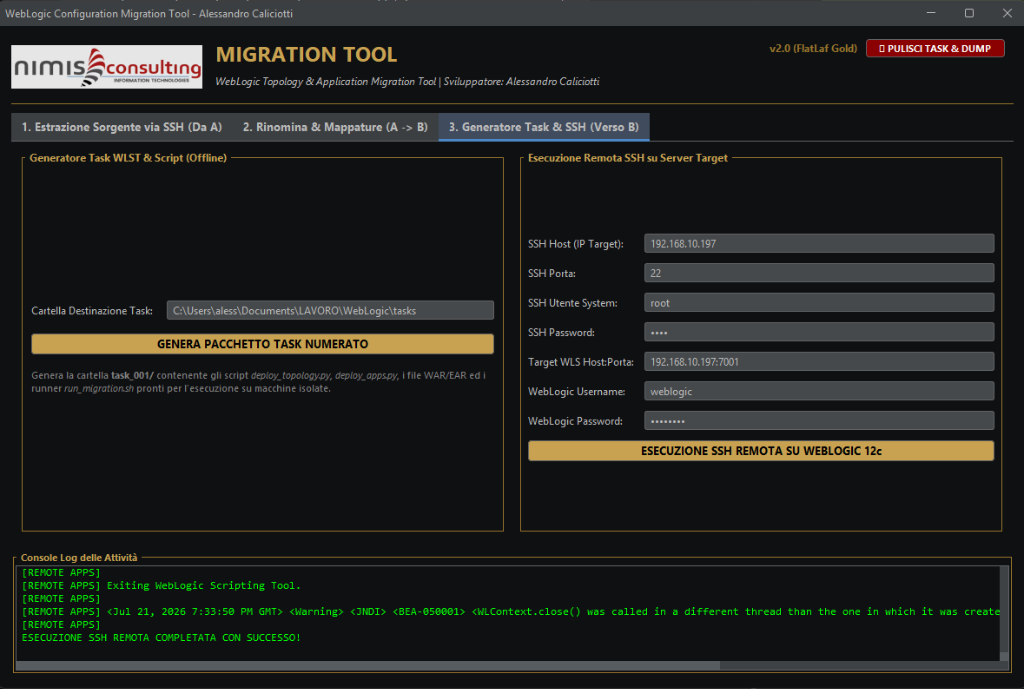
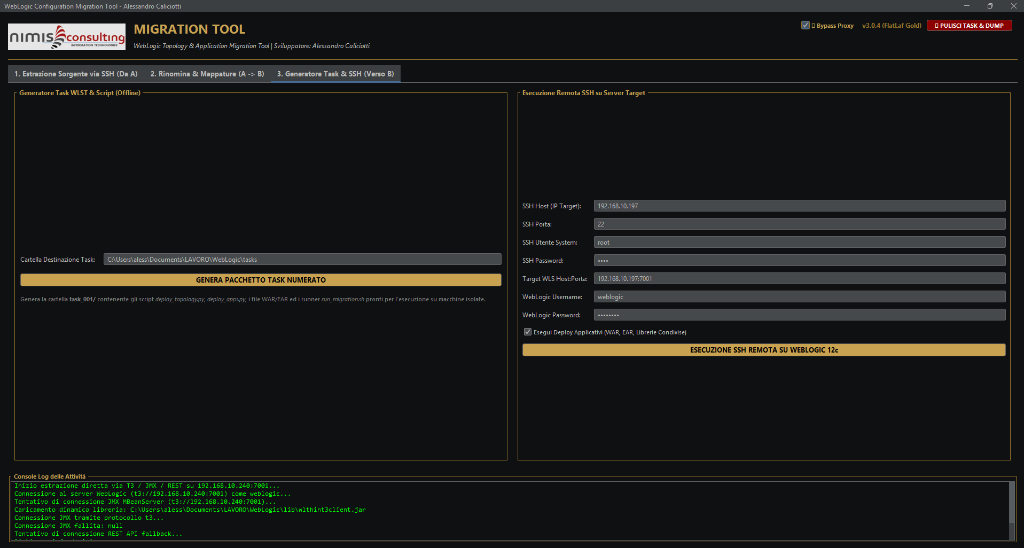
Update README.md with v3.0.4 features and screenshots

diff --git a/README.md b/README.md
@@ -5,7 +5,7 @@
 </p>
 
 <p align="center">
-  <b>Version 2.0 (FlatLaf Gold)</b> | Sviluppatore: <i>Alessandro Caliciotti</i> | <b>Nimis Consulting Information Technologies</b>
+  <b>Version 3.0.4 (FlatLaf Gold)</b> | Sviluppatore: <i>Alessandro Caliciotti</i> | <b>Nimis Consulting Information Technologies</b>
 </p>
 
 ---
@@ -22,19 +22,23 @@
 ### 📌 Panoramica del Software
 Il **WebLogic Migration Tool** è una soluzione software enterprise progettata per automatizzare l'estrazione, la migrazione e la replicazione della topologia e delle applicazioni fra ambienti **Oracle WebLogic Server (11g/12c)**.
 
-Il tool gestisce l'intero ciclo di vita della migrazione: dall'estrazione remota via SSH con decifrazione automatica delle password dei DataSources JDBC, alla ri-mappatura grafica di nomi, porte e credenziali, fino all'installazione remota dei pacchetti applicativi (`.war`, `.ear`, `.jar`).
+Il tool gestisce l'intero ciclo di vita della migrazione: dall'estrazione remota via SSH con decifrazione automatica delle password dei DataSources JDBC, alla ri-mappatura grafica di nomi, porte e credenziali, fino all'installazione remota dei pacchetti applicativi (`.war`, `.ear`, `.jar`) e delle Librerie Condivise (`Shared Libraries`).
 
-#### ✨ Caratteristiche Principali:
+#### ✨ Caratteristiche Principali (v3.0.4):
 1. **Estrazione Completa MBean (SSH & Offline)**:
-   - Estrae il 100% degli attributi di Server (argomenti JVM, ClassPath, JavaHome, SSLPort, AutoRestart) e Applicazioni (target, staging mode, deployment order).
+   - Estrae il 100% degli attributi di Server (argomenti JVM, ClassPath, JavaHome, SSLPort, AutoRestart), DataSources JDBC e Applicazioni.
    - **Decifrazione Password JDBC**: Decifra automaticamente le password offuscate `XMLEncryptionSecret` direttamente dai file `config.xml` sorgente.
-2. **Harvesting Applicativo Automatico**:
-   - Scarica automaticamente i pacchetti fisici (`.war`, `.ear`) dai percorsi sorgente (`getSourcePath()`) nella cartella `apps/`.
+2. **Riconoscimento & Deploy Nativo Librerie Condivise (`Shared Libraries`)**:
+   - Riconosce automaticamente le Librerie Condivise (inclusi i tag di versione WebLogic `#` e `@` come `caf_lib#1.0@1.0.0`).
+   - Esegue il deploy nativo su WebLogic impostando `libraryModule='true'`.
 3. **Pannello di Rinomina & Mappatura Dinamica (A -> B)**:
-   - Tabella interattiva per rinominare Cluster e Server, cambiare porte di ascolto e sostituire le password del database.
-4. **Deploy Remoto Automatico su WebLogic 12c**:
-   - Carica i file `.war` nella cartella `/tmp/apps/` del server target ed esegui gli script WLST di attivazione senza intervento manuale.
-5. **Architettura 100% Portabile e Standalone**:
+   - Tabella interattiva per rinominare Cluster e Server, cambiare porte di ascolto, verificare duplicati e sostituire le password del database.
+4. **Flag Deploy Applicativi Spuntabile in GUI**:
+   - Checkbox `☑ Esegui Deploy Applicativi` per scegliere se migrare sia la topologia che le applicazioni, oppure limitare l'esecuzione alla sola topologia (Machine, Cluster, Server, JDBC DataSources).
+5. **Robustezza & Partizionamento WLST (Anti-JVM 64KB Limit)**:
+   - Suddivide automaticamente gli script Python in lotti di funzioni da 15 elementi per evitare il limite di 64KB per metodo bytecode della JVM.
+   - Utilizza helpers `safe_create` e lookup delle proprietà JDBC per prevenire eccezioni di risorse pre-esistenti (`BeanAlreadyExistsException` / `NoneType`).
+6. **Architettura 100% Portabile e Standalone**:
    - Include un runtime OpenJDK 17 integrato (`run.cmd` / `run.sh`). Non richiede Java preinstallato sul sistema.
 
 ---
@@ -42,14 +46,14 @@ Il tool gestisce l'intero ciclo di vita della migrazione: dall'estrazione remota
 ### 🖥️ Guida all'Interfaccia Grafica ed Utilizzo
 
 #### 1. Scheda 1: Estrazione Sorgente via SSH (Da A)
-Permette di inserire le credenziali SSH e WebLogic del server sorgente (11g) ed avviare l'estrazione automatica del dominio. In alternativa, permette di generare un pacchetto di estrazione offline (`dump_tool_xxx/`) per server isolati.
+Permette di inserire le credenziali SSH e WebLogic del server sorgente (11g/12c) ed avviare l'estrazione automatica del dominio. In alternativa, permette di generare un pacchetto di estrazione offline (`dump_tool_xxx/`) per server isolati.
 
 ![Estrazione Sorgente SSH](docs/images/tab1_extraction.png)
 
 - **Form Sinistro**: Inserimento IP sorgente, porta SSH, credenziali di sistema `root` e credenziali WebLogic.
-- **Pulsante "ESTRAI CONFIGURAZIONE DOMINIO (SSH)"**: Avvia lo script WLST remoto in background con **Loading Overlay stile Apple in tema Gold Leaf**.
-- **Albero del Dominio (Destra)**: Visualizza la topologia estratta (Cluster, Managed Server, Porte SSL, DataSources JDBC).
-- **Console Log (Basso)**: Mostra in tempo reale lo scaricamento delle applicazioni nella cartella `apps/`.
+- **Pulsante "ESTRAZIONE REMOTA SSH (SERVER LINUX)"**: Avvia lo script WLST remoto in background con **Loading Overlay stile Apple in tema Gold Leaf**.
+- **Albero del Dominio (Destra)**: Visualizza la topologia estratta (Cluster, Managed Server, Porte SSL, DataSources JDBC, Applicazioni e Librerie).
+- **Console Log (Basso)**: Mostra in tempo reale lo scaricamento delle applicazioni e delle librerie nella cartella `apps/`.
 
 ---
 
@@ -60,21 +64,21 @@ Consente di modificare ed adattare la configurazione sorgente prima del deploy n
 
 - **Modifica dei Nomi**: Cambia il nome dei Cluster e dei Managed Server target.
 - **Porte e Credenziali DB**: Sostituisci la porta di ascolto dei server gestiti ed aggiorna la password reale del database per i DataSources JDBC.
-- **Riassegnazione Target**: Associa ogni applicazione o server al Cluster di destinazione desiderato.
+- **Strumenti Toolbar**: Salva/Carica Progetto (`.wlsmap`), Valida Mappature, Controllo Porte Duplicate, Consolida Machine, Trova & Sostituisci.
 - **Pulsante "CONFERMA MAPPATURE E RINOMINE"**: Applica le modifiche al modello in memoria.
 
 ---
 
 #### 3. Scheda 3: Generatore Task & Deploy Remoto (Verso B)
-Genera il pacchetto di deploy numerato (`task_xxx/`) oppure esegue direttamente l'installazione remota via SSH su WebLogic 12c.
+Genera il pacchetto di deploy numerato (`task_xxx/`) oppure esegue direttamente l'installazione remota via SSH su WebLogic target.
 
 ![Generazione ed Esecuzione Task](docs/images/tab3_execution.png)
 
 - **Pulsante "GENERA PACCHETTO TASK NUMERATO"**: Crea una cartella standalone pronta per l'esecuzione su macchine offline.
+- **Checkbox "Esegui Deploy Applicativi"**: Permette di abilitare o disabilitare l'installazione delle applicazioni durante l'esecuzione SSH.
 - **Pulsante "ESECUZIONE SSH REMOTA SU WEBLOGIC 12C"**:
-  1. Carica automaticamente gli applicativi `.war` / `.ear` in `/tmp/apps/` sul target.
-  2. Esegue lo script WLST `deploy_topology.py` per creare Cluster, Server e DataSources.
-  3. Esegue `deploy_apps.py` per installare ed attivare le applicazioni sul target.
+  1. Esegue lo script WLST `deploy_topology.py` per creare Machine, Cluster, Server e DataSources JDBC.
+  2. Esegue lo script WLST `deploy_apps.py` per installare ed attivare le applicazioni e le Librerie Condivise (`libraryModule='true'`).
 
 ---
 
@@ -104,19 +108,23 @@ Genera il pacchetto di deploy numerato (`task_xxx/`) oppure esegue direttamente 
 ### 📌 Software Overview
 The **WebLogic Migration Tool** is an enterprise software solution designed to automate topology extraction, configuration renaming, and application migration between **Oracle WebLogic Server (11g/12c)** environments.
 
-The tool handles the entire migration lifecycle: from remote SSH extraction with automatic decryption of JDBC DataSource passwords, to graphical renaming/mapping of ports and credentials, up to physical deployment of application archives (`.war`, `.ear`, `.jar`).
+The tool handles the entire migration lifecycle: from remote SSH extraction with automatic decryption of JDBC DataSource passwords, to graphical renaming/mapping of ports and credentials, up to physical deployment of application archives (`.war`, `.ear`, `.jar`) and Shared Libraries.
 
-#### ✨ Key Features:
+#### ✨ Key Features (v3.0.4):
 1. **Exhaustive MBean Extraction (SSH & Offline)**:
-   - Extracts 100% of MBean attributes for Servers (JVM startup args, ClassPath, JavaHome, SSLPort, AutoRestart) and Applications (targets, staging modes, deployment orders).
+   - Extracts 100% of MBean attributes for Servers (JVM startup args, ClassPath, JavaHome, SSLPort, AutoRestart), JDBC DataSources, and Applications.
    - **JDBC Password Decryption**: Automatically decrypts obfuscated `XMLEncryptionSecret` passwords directly from source `config.xml` files.
-2. **Automatic Application File Harvesting**:
-   - Automatically downloads physical `.war` / `.ear` binaries from WebLogic source paths (`getSourcePath()`) into `apps/`.
+2. **Automatic Shared Library Detection & Deployment**:
+   - Automatically detects Shared Libraries (including WebLogic versioning tags `#` and `@` such as `caf_lib#1.0@1.0.0`).
+   - Deploys shared libraries natively setting `libraryModule='true'`.
 3. **Dynamic Renaming & Mapping Panel (A -> B)**:
-   - Interactive data table to rename Clusters and Servers, change listen ports, and update database passwords.
-4. **Automatic Remote Deploy to WebLogic 12c**:
-   - Uploads `.war` archives into `/tmp/apps/` on target servers and runs automated WLST deployment scripts.
-5. **100% Portable Standalone Architecture**:
+   - Interactive data table to rename Clusters and Servers, change listen ports, check duplicate ports, and update database passwords.
+4. **GUI Application Deployment Toggle**:
+   - Checkbox `☑ Esegui Deploy Applicativi` to select whether to deploy both topology and applications, or restrict execution to topology only (Machines, Clusters, Servers, JDBC DataSources).
+5. **Robustness & WLST Code Batching (Anti-JVM 64KB Limit)**:
+   - Automatically splits Python WLST scripts into function batches of 15 items to prevent JVM 64KB bytecode method limits.
+   - Uses `safe_create` helpers and JDBC property lookups to prevent pre-existing resource exceptions (`BeanAlreadyExistsException` / `NoneType`).
+6. **100% Portable Standalone Architecture**:
    - Bundles a portable OpenJDK 17 runtime (`run.cmd` / `run.sh`). No system Java installation required.
 
 ---
@@ -124,14 +132,14 @@ The tool handles the entire migration lifecycle: from remote SSH extraction with
 ### 🖥️ User Interface & Workflow Guide
 
 #### 1. Tab 1: Source Extraction via SSH (From A)
-Allows entering SSH and WebLogic credentials for the source 11g server and starting automated domain extraction. Alternatively, generates an offline extraction package (`dump_tool_xxx/`) for isolated environments.
+Allows entering SSH and WebLogic credentials for the source 11g/12c server and starting automated domain extraction. Alternatively, generates an offline extraction package (`dump_tool_xxx/`) for isolated environments.
 
 ![Source SSH Extraction](docs/images/tab1_extraction.png)
 
 - **Left Form**: Input source IP, SSH port, `root` credentials, and WebLogic admin credentials.
-- **"ESTRAI CONFIGURAZIONE DOMINIO (SSH)" Button**: Triggers remote WLST extraction in the background featuring an **Apple-style Gold Leaf loading overlay**.
-- **Domain Tree (Right)**: Displays the extracted topology hierarchy (Clusters, Managed Servers, SSL Ports, JDBC DataSources).
-- **Console Log (Bottom)**: Real-time progress output showing application file downloads into `apps/`.
+- **"ESTRAZIONE REMOTA SSH (SERVER LINUX)" Button**: Triggers remote WLST extraction in the background featuring an **Apple-style Gold Leaf loading overlay**.
+- **Domain Tree (Right)**: Displays the extracted topology hierarchy (Clusters, Managed Servers, SSL Ports, JDBC DataSources, Applications, Libraries).
+- **Console Log (Bottom)**: Real-time progress output showing application and library downloads into `apps/`.
 
 ---
 
@@ -142,21 +150,21 @@ Allows customizing and adapting the source configuration before deploying to the
 
 - **Name Editing**: Modify Cluster and Managed Server target names.
 - **Ports & DB Credentials**: Reassign listen ports and update real database passwords for JDBC DataSources.
-- **Target Remapping**: Map applications and servers to their designated target Cluster.
+- **Toolbar Tools**: Save/Load Project (`.wlsmap`), Validate Mappings, Duplicate Port Checking, Machine Consolidation, Search & Replace.
 - **"CONFERMA MAPPATURE E RINOMINE" Button**: Applies changes to the in-memory migration model.
 
 ---
 
 #### 3. Tab 3: Task Generator & Remote Execution (To B)
-Generates a standalone migration package (`task_xxx/`) or executes direct remote SSH deployment to target WebLogic 12c.
+Generates a standalone migration package (`task_xxx/`) or executes direct remote SSH deployment to target WebLogic server.
 
 ![Task Generation and Execution](docs/images/tab3_execution.png)
 
 - **"GENERA PACCHETTO TASK NUMERATO" Button**: Exports a self-contained package for air-gapped target servers.
+- **"Esegui Deploy Applicativi" Checkbox**: Enables or disables application deployment during SSH execution.
 - **"ESECUZIONE SSH REMOTA SU WEBLOGIC 12C" Button**:
-  1. Uploads `.war` / `.ear` application packages to `/tmp/apps/` on target server.
-  2. Runs `deploy_topology.py` WLST script to create Clusters, Servers, and DataSources.
-  3. Runs `deploy_apps.py` WLST script to install and activate applications.
+  1. Runs `deploy_topology.py` WLST script to create Machines, Clusters, Servers, and JDBC DataSources.
+  2. Runs `deploy_apps.py` WLST script to install and activate applications and Shared Libraries (`libraryModule='true'`).
 
 ---
 